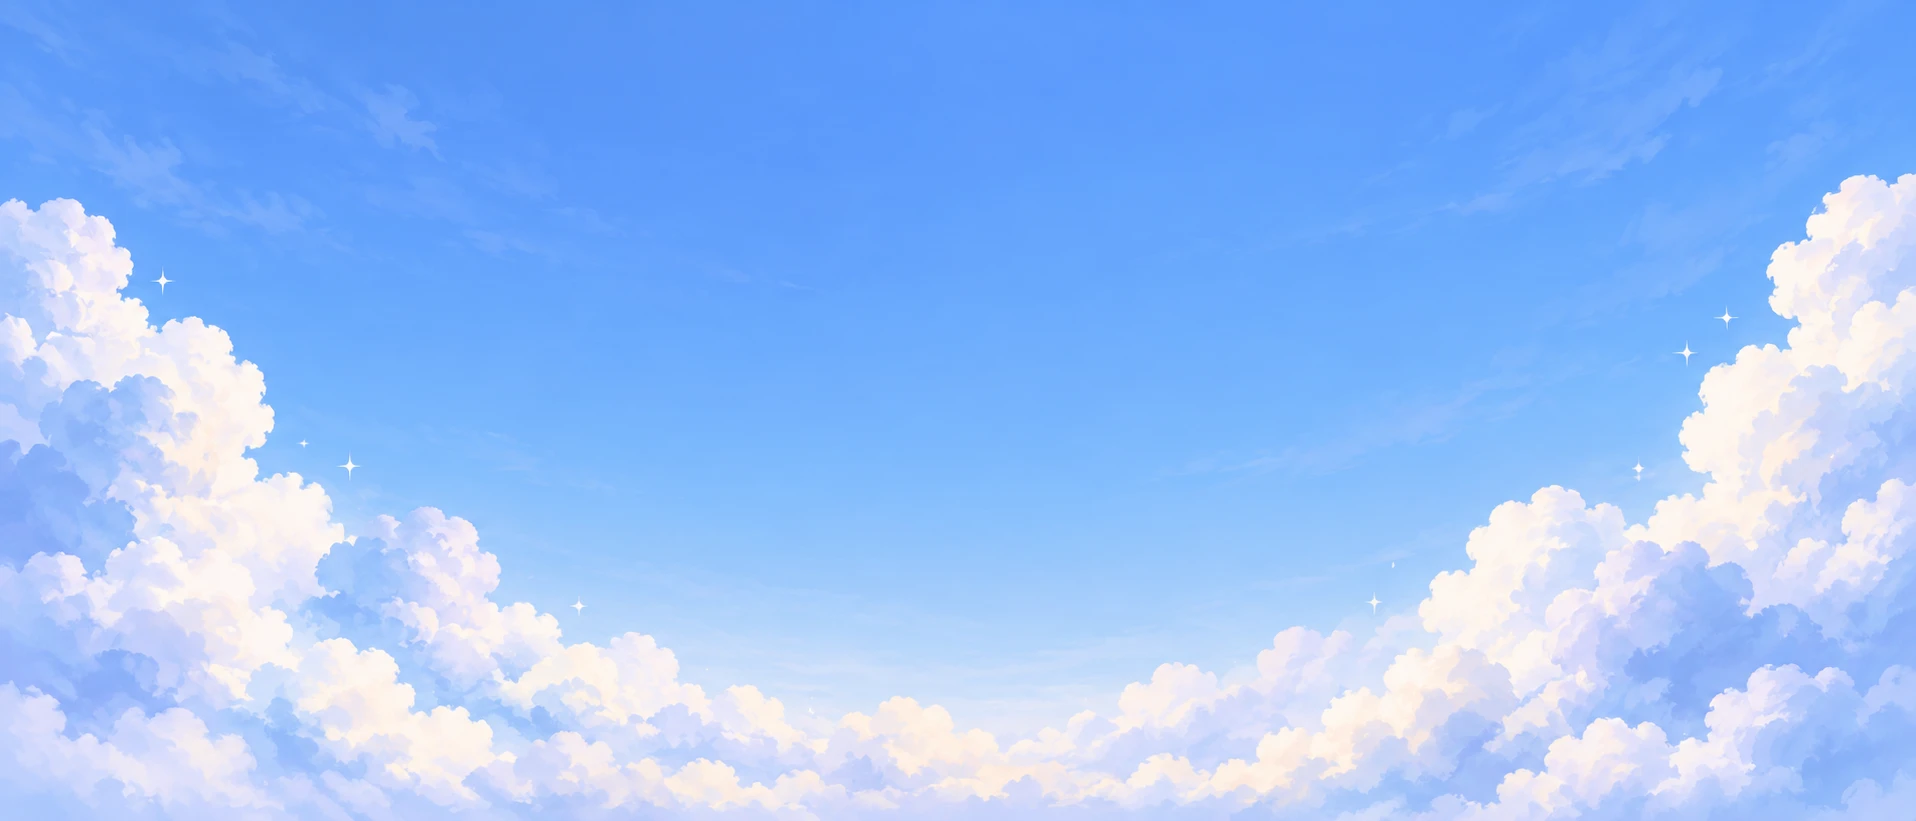
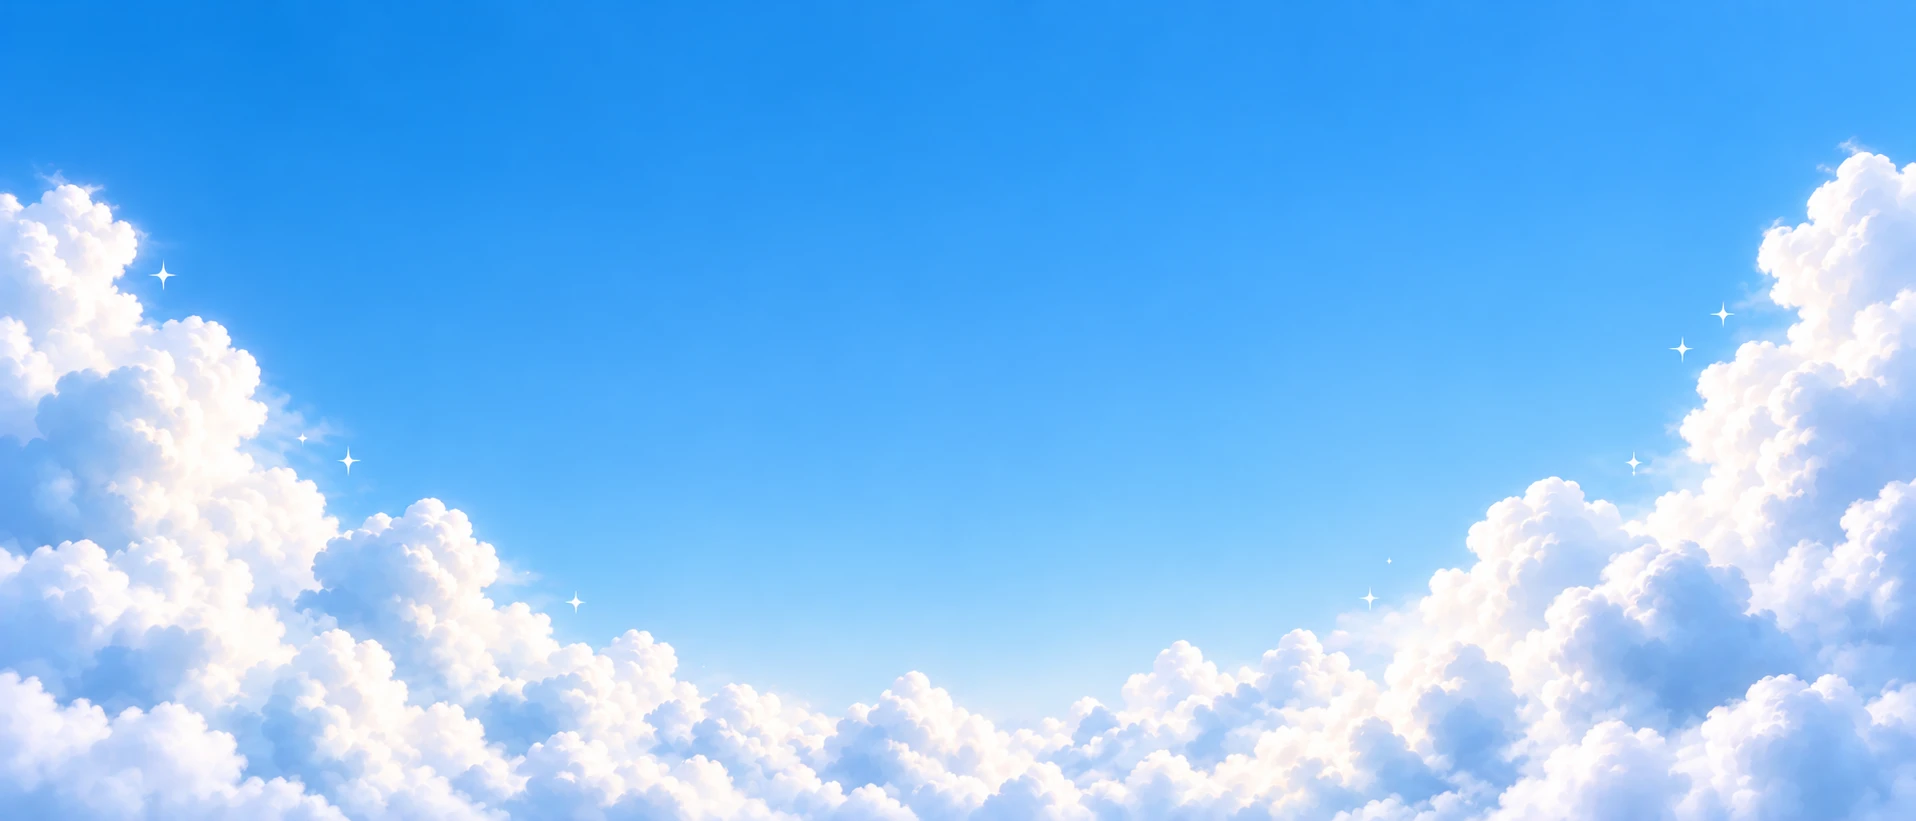
brighten the sky behind every page
A new painting of the same clouds, brighter and bluer, behind the About,
Dashboard, Templates and template pages, the editor and the footer's
strip. The colour shown while it loads is its own, as before, and the
grey words on it read at 4.7:1 against its bluest part.

diff --git a/frontend/src/app/styles/glass.css b/frontend/src/app/styles/glass.css
@@ -108,7 +108,7 @@
      put as the page scrolls (browsers that don't fix backgrounds, as on iOS,
      scroll it). The color under it is the sky's own, so the page is already
      blue while the picture loads, and a light wash (--desk-wash) keeps text on
-     it readable: secondary text is darker than on paper, 5.6:1 against the
+     it readable: secondary text is darker than on paper, 4.7:1 against the
      sky's bluest part below the header under the wash (4.5:1 is the minimum).
      Each time of day can have its own sky (data-sky on <html>, set by the
      clock in layout.tsx): a time with no picture of its own keeps this one. */
@@ -116,7 +116,7 @@
     --color-ink-2: #2a2d33;
     --desk-wash: 0.16;
     --desk-sky: url("/backgrounds/sky-wide.webp");
-    background-color: #97bffa;
+    background-color: #7fbff7;
     background-image: linear-gradient(rgb(255 255 255 / var(--desk-wash)), rgb(255 255 255 / var(--desk-wash))), var(--desk-sky);
     background-size: cover;
     background-position: center bottom;
